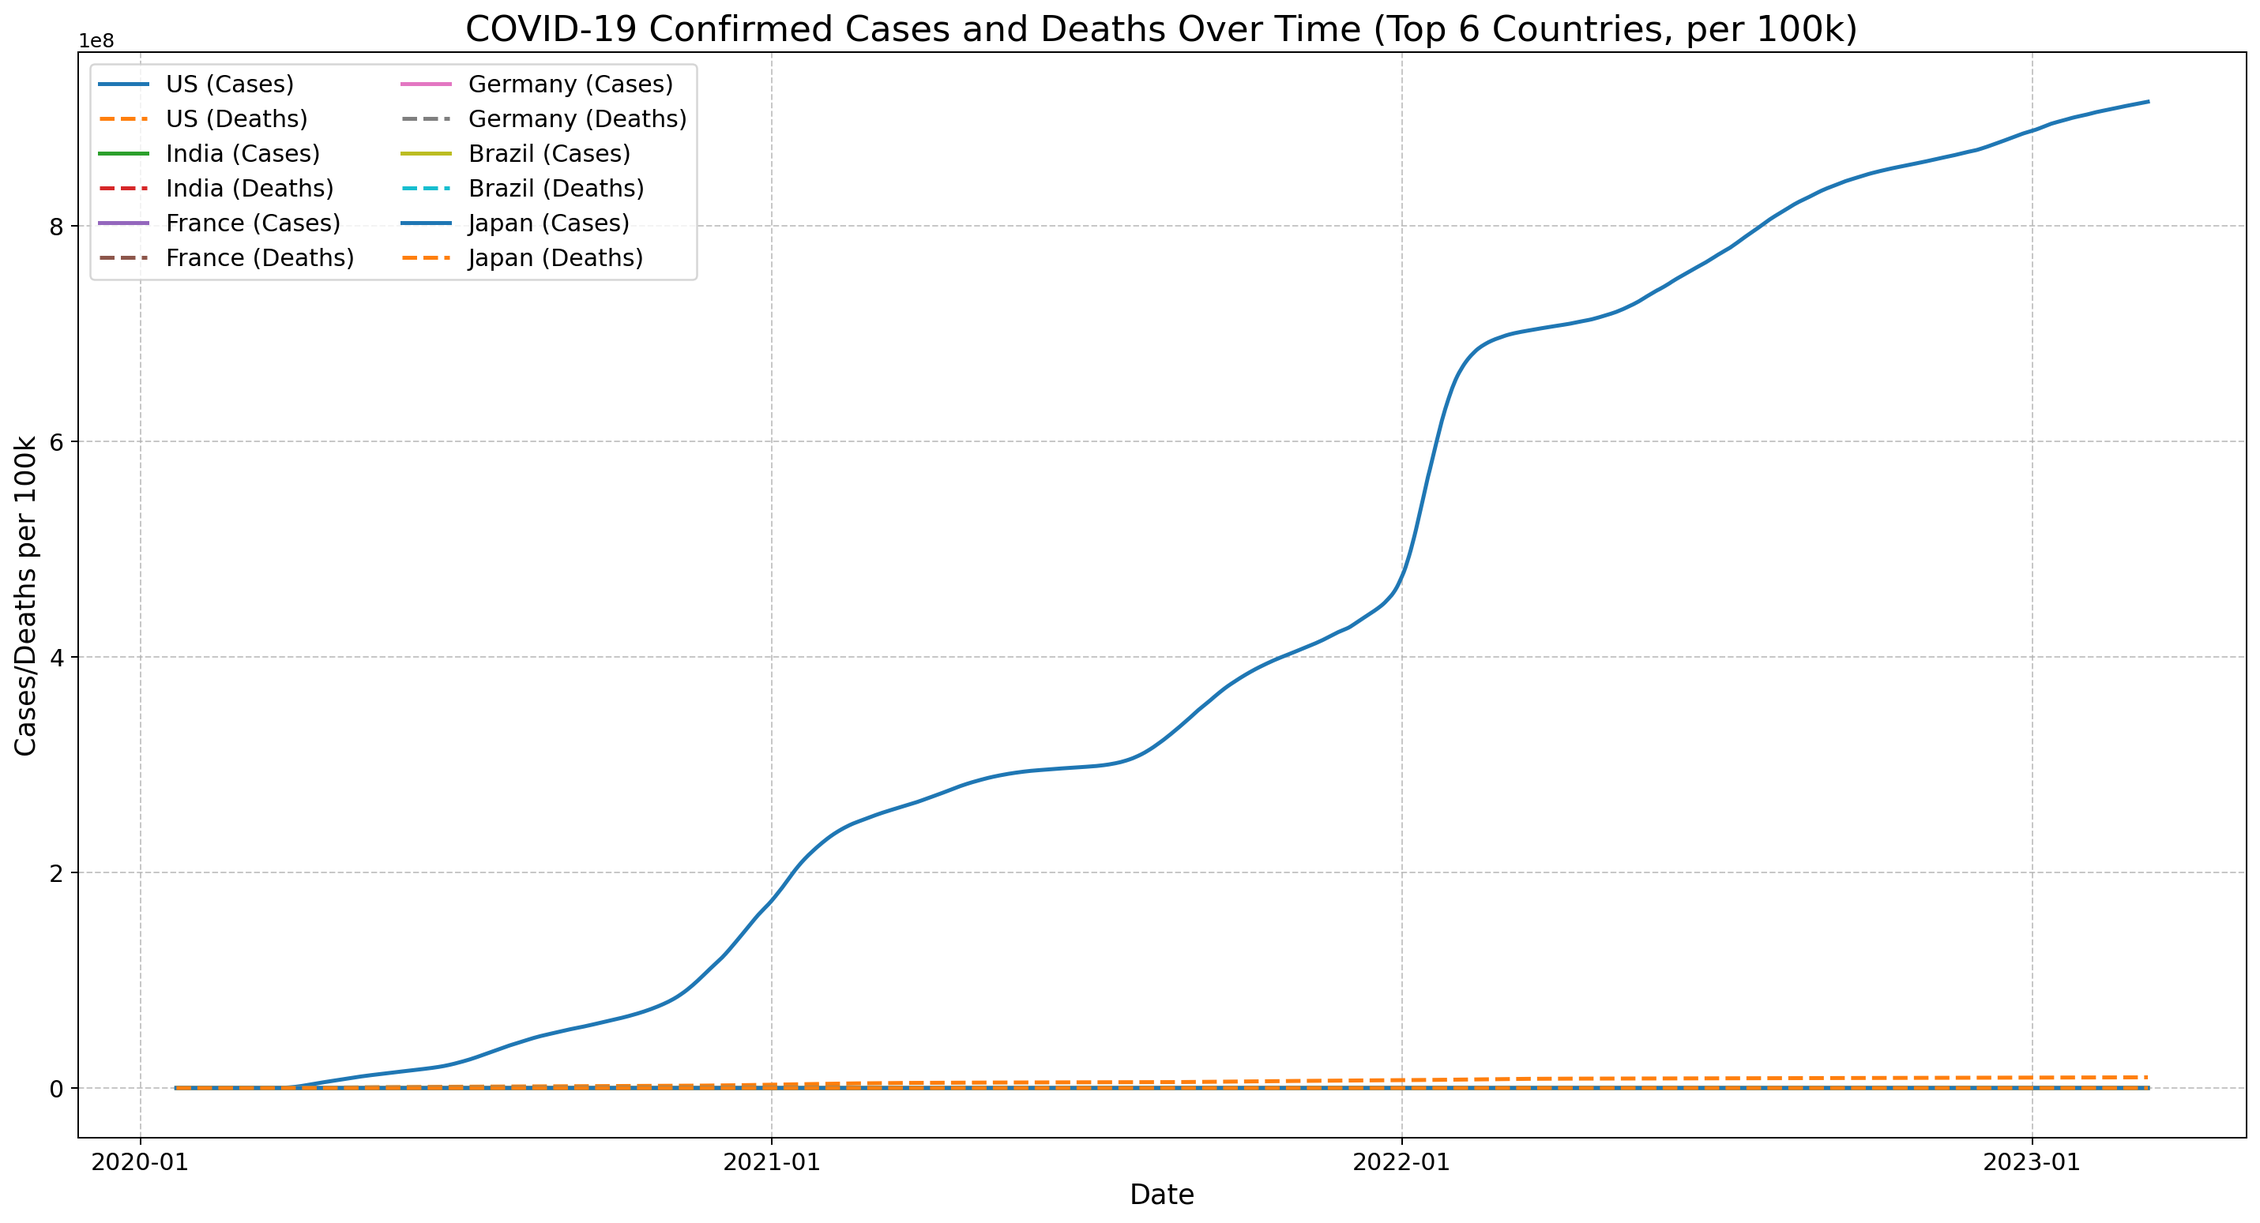
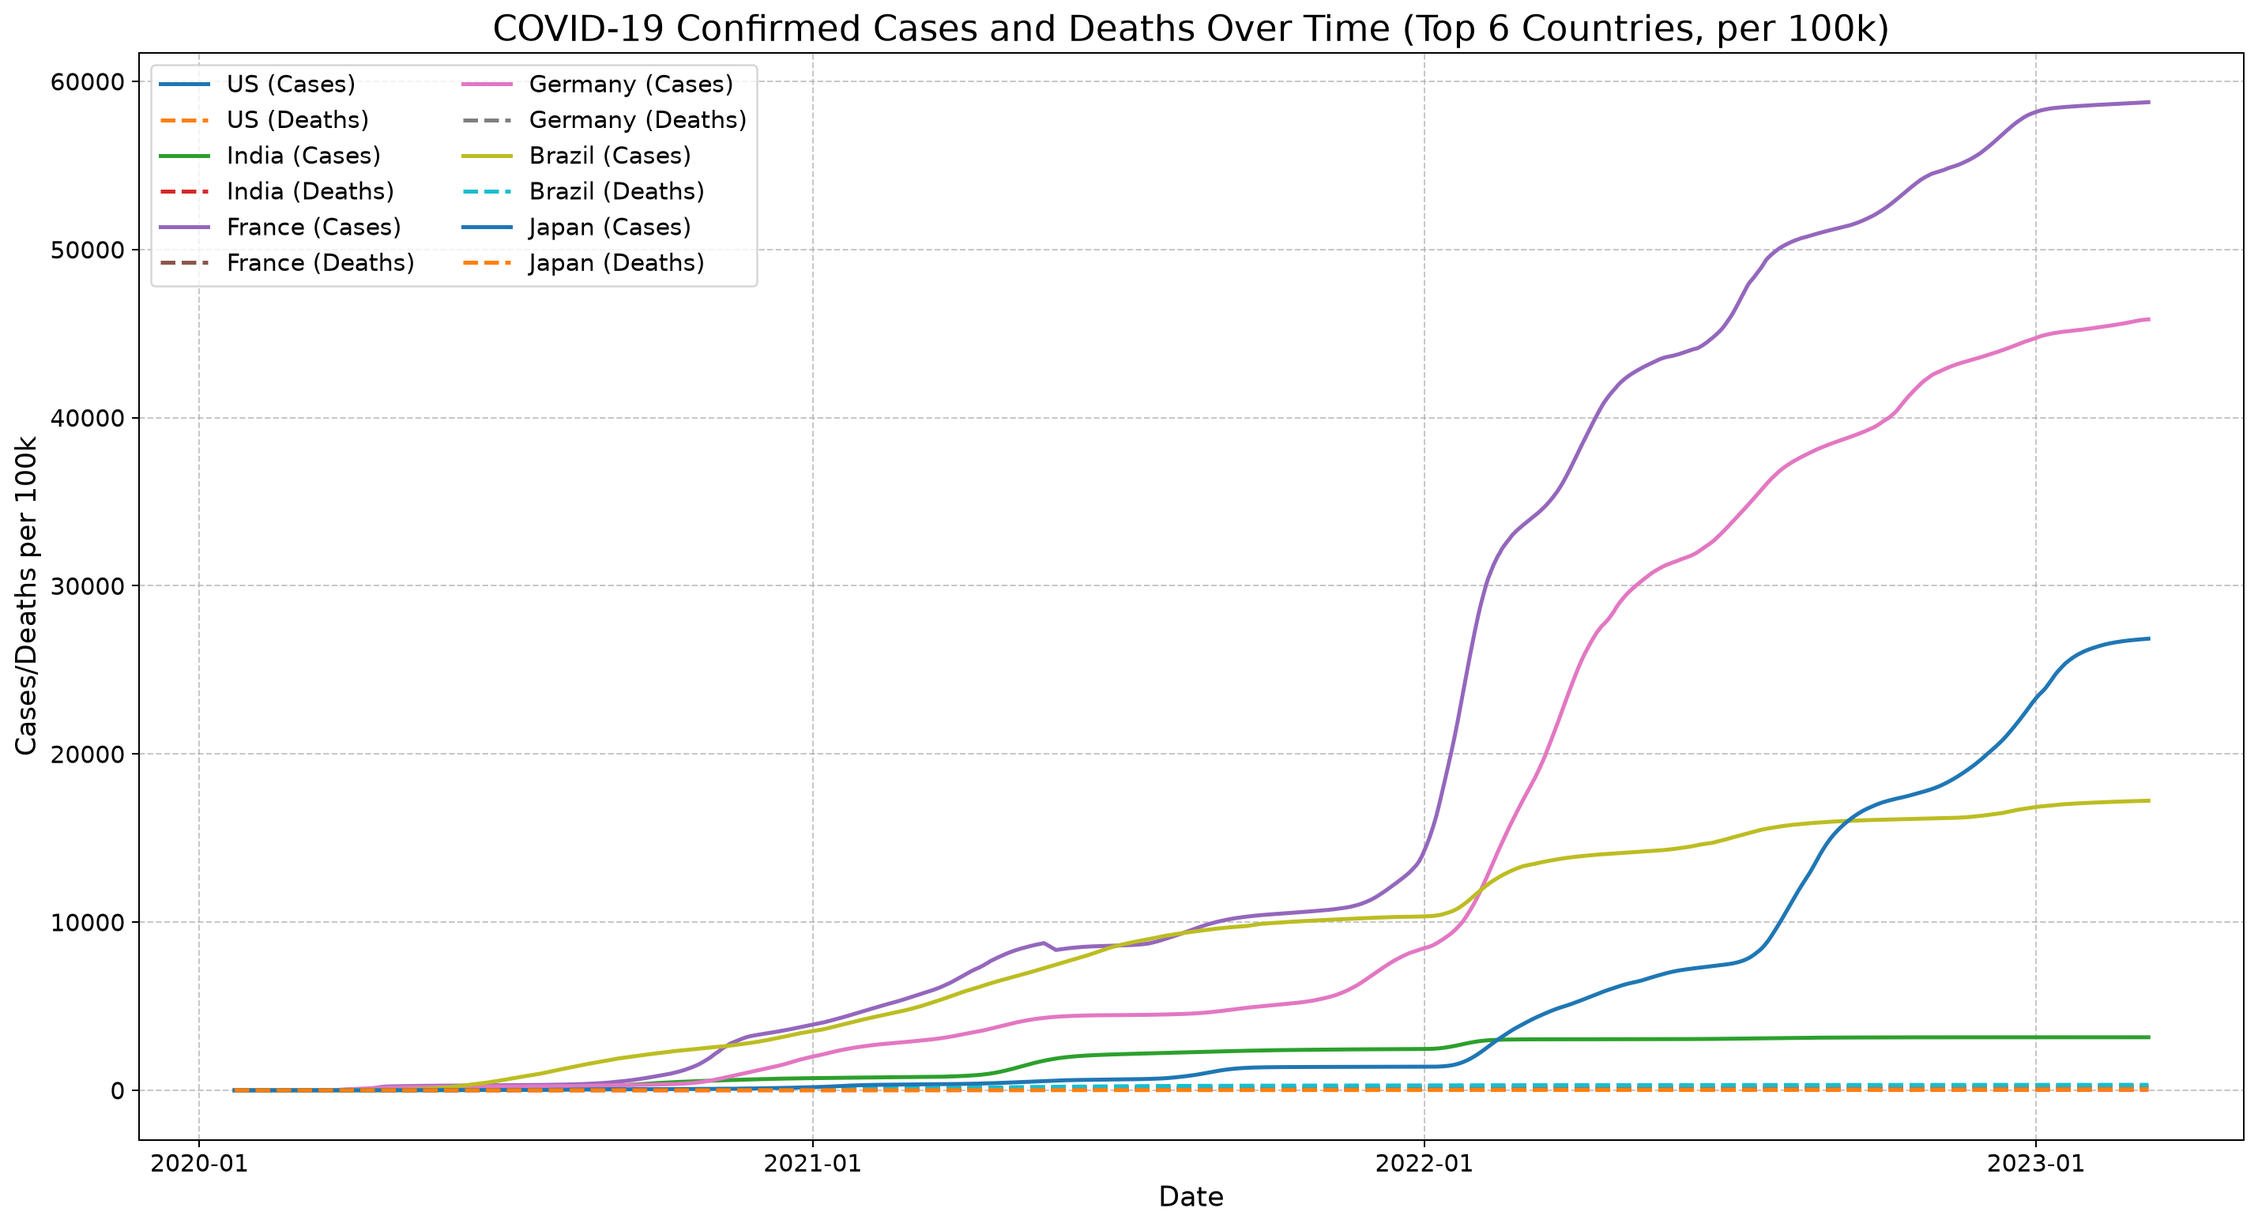
Record COVID input snapshot and correct pipeline claims

diff --git a/covid_analysis.py b/covid_analysis.py
@@ -4,6 +4,9 @@ import numpy as np
 import matplotlib.pyplot as plt
 import seaborn as sns
 import requests
+import hashlib
+import json
+from datetime import datetime, timezone
 
 # Set visualization output directory
 VIS_DIR = 'visualization'
@@ -12,11 +15,15 @@ os.makedirs(VIS_DIR, exist_ok=True)
 # -------------------------------
 # 1. DATA ACQUISITION & LOADING
 # -------------------------------
-# TODO: Download or load datasets: Johns Hopkins, OWID, Oxford, Population
-# Example URLs (update as needed):
-# Johns Hopkins: https://github.com/CSSEGISandData/COVID-19
-# OWID: https://covid.ourworldindata.org/data/owid-covid-data.csv
-# Oxford: https://github.com/OxCGRT/covid-policy-tracker
+# Johns Hopkins cumulative series and OWID population, vaccination, and policy fields.
+
+DATASETS = [
+    ('Johns Hopkins Confirmed', 'https://raw.githubusercontent.com/CSSEGISandData/COVID-19/master/csse_covid_19_data/csse_covid_19_time_series/time_series_covid19_confirmed_global.csv', 'time_series_covid19_confirmed_global.csv'),
+    ('Johns Hopkins Deaths', 'https://raw.githubusercontent.com/CSSEGISandData/COVID-19/master/csse_covid_19_data/csse_covid_19_time_series/time_series_covid19_deaths_global.csv', 'time_series_covid19_deaths_global.csv'),
+    ('Johns Hopkins Recovered', 'https://raw.githubusercontent.com/CSSEGISandData/COVID-19/master/csse_covid_19_data/csse_covid_19_time_series/time_series_covid19_recovered_global.csv', 'time_series_covid19_recovered_global.csv'),
+    ('OWID', 'https://raw.githubusercontent.com/owid/covid-19-data/master/public/data/owid-covid-data.csv', 'owid-covid-data.csv'),
+]
+
 
 def download_data():
     """
@@ -24,48 +31,29 @@ def download_data():
     Downloads:
     - Johns Hopkins CSSE time series (confirmed, deaths, recovered)
     - Our World in Data (OWID) COVID-19 dataset
-    - Oxford COVID-19 Government Response Tracker (OxCGRT)
+    - OWID population, vaccination, and reported policy fields
     """
-    datasets = [
-        {
-            'name': 'Johns Hopkins Confirmed',
-            'url': 'https://raw.githubusercontent.com/CSSEGISandData/COVID-19/master/csse_covid_19_data/csse_covid_19_time_series/time_series_covid19_confirmed_global.csv',
-            'path': 'time_series_covid19_confirmed_global.csv'
-        },
-        {
-            'name': 'Johns Hopkins Deaths',
-            'url': 'https://raw.githubusercontent.com/CSSEGISandData/COVID-19/master/csse_covid_19_data/csse_covid_19_time_series/time_series_covid19_deaths_global.csv',
-            'path': 'time_series_covid19_deaths_global.csv'
-        },
-        {
-            'name': 'Johns Hopkins Recovered',
-            'url': 'https://raw.githubusercontent.com/CSSEGISandData/COVID-19/master/csse_covid_19_data/csse_covid_19_time_series/time_series_covid19_recovered_global.csv',
-            'path': 'time_series_covid19_recovered_global.csv'
-        },
-        {
-            'name': 'OWID',
-            'url': 'https://covid.ourworldindata.org/data/owid-covid-data.csv',
-            'path': 'owid-covid-data.csv'
-        },
-        {
-            'name': 'Oxford Policy',
-            'url': 'https://raw.githubusercontent.com/OxCGRT/covid-policy-tracker/master/data/OxCGRT_latest.csv',
-            'path': 'OxCGRT_latest.csv'
-        }
-    ]
-    for ds in datasets:
-        if not os.path.exists(ds['path']):
-            print(f"Downloading {ds['name']} dataset...")
+    manifest = []
+    for name, url, path in DATASETS:
+        if not os.path.exists(path):
             try:
-                r = requests.get(ds['url'], timeout=60)
-                r.raise_for_status()
-                with open(ds['path'], 'wb') as f:
-                    f.write(r.content)
-                print(f"Downloaded {ds['path']}.")
-            except Exception as e:
-                print(f"Failed to download {ds['name']}: {e}")
-        else:
-            print(f"{ds['path']} already exists. Skipping download.")
+                response = requests.get(url, timeout=60)
+                response.raise_for_status()
+            except requests.RequestException as exc:
+                raise RuntimeError(f'Required {name} download failed from {url}: {exc}') from exc
+            if not response.content:
+                raise ValueError(f'{name} download was empty')
+            temporary_path = path + '.partial'
+            with open(temporary_path, 'wb') as target:
+                target.write(response.content)
+            os.replace(temporary_path, path)
+        with open(path, 'rb') as source:
+            digest = hashlib.file_digest(source, 'sha256').hexdigest()
+        manifest.append({'name': name, 'url': url, 'path': path,
+                         'sha256': digest, 'retrieved_or_verified_utc': datetime.now(timezone.utc).isoformat()})
+    with open('data_manifest.json', 'w') as target:
+        json.dump(manifest, target, indent=2)
+    return manifest
 
 # -------------------------------
 # 2. DATA CLEANING & MERGING
@@ -102,7 +90,7 @@ def load_and_merge_data():
     # Merge JHU datasets
     df_jhu = df_conf_long.merge(df_deaths_long, on=['Country/Region', 'date'], how='outer')
     df_jhu = df_jhu.merge(df_recov_long, on=['Country/Region', 'date'], how='outer')
-    df_jhu['date'] = pd.to_datetime(df_jhu['date'], errors='coerce')
+    df_jhu['date'] = pd.to_datetime(df_jhu['date'], format='%m/%d/%y', errors='coerce')
     df_jhu = df_jhu.rename(columns={'Country/Region': 'location'})
 
     # Load OWID dataset
@@ -119,7 +107,9 @@ def load_and_merge_data():
     )
 
     # Fill population from OWID
-    merged['population'] = merged['population'].fillna(method='ffill').fillna(method='bfill')
+    merged = merged.sort_values(['location', 'date'])
+    merged['population'] = merged.groupby('location')['population'].ffill().fillna(
+        merged.groupby('location')['population'].bfill())
     # Normalize per 100k population
     for col in ['confirmed', 'deaths', 'recovered', 'new_cases', 'new_deaths', 'new_vaccinations']:
         if col in merged.columns:
@@ -127,8 +117,9 @@ def load_and_merge_data():
 
     # Handle missing values
     merged = merged.sort_values(['location', 'date'])
-    merged = merged.groupby('location').apply(lambda group: group.fillna(method='ffill')).reset_index(drop=True)
-    merged = merged.fillna(0)
+    value_columns = merged.columns.difference(['location', 'date'])
+    merged[value_columns] = merged.groupby('location')[value_columns].ffill()
+    # Keep unavailable vaccination and policy values missing rather than inventing zeroes.
 
     # Save merged dataset
     merged.to_csv('merged_covid_dataset.csv', index=False)
@@ -170,25 +161,21 @@ def plot_cases_by_country(df):
 
 
 def plot_deaths_vs_vaccination(df):
-    """
-    Enhanced: Compare deaths vs vaccination rates per capita (latest available date, top 20 countries).
-    - Horizontal bar plot with clear color distinction.
-    - Larger figure, bigger fonts, separated legends, gridlines.
-    - Saves plot as visualization/deaths_vs_vaccination.png
-    """
+    """Plot two differently scaled measures on separate axes without implying causality."""
     latest = df.groupby('location')['date'].max().reset_index()
     merged_latest = df.merge(latest, on=['location', 'date'], how='inner')
     merged_latest = merged_latest[merged_latest['population'] > 1e6]
+    merged_latest = merged_latest.dropna(subset=['deaths_per100k', 'people_fully_vaccinated_per_hundred'])
     merged_latest = merged_latest.sort_values('deaths_per100k', ascending=False).head(20)
-    plt.figure(figsize=(14, 10))
-    bar1 = plt.barh(merged_latest['location'], merged_latest['deaths_per100k'], color='tomato', alpha=0.8, label='Deaths per 100k')
-    bar2 = plt.barh(merged_latest['location'], merged_latest['people_fully_vaccinated_per_hundred'], color='mediumseagreen', alpha=0.6, label='Fully Vaccinated (%)')
-    plt.title('Deaths vs Vaccination Rates per Capita (Top 20 Impacted Countries)', fontsize=18)
-    plt.xlabel('Value', fontsize=14)
-    plt.ylabel('Country', fontsize=14)
+    plt.figure(figsize=(14, 8))
+    plt.scatter(merged_latest['people_fully_vaccinated_per_hundred'], merged_latest['deaths_per100k'])
+    for row in merged_latest.itertuples():
+        plt.annotate(row.location, (row.people_fully_vaccinated_per_hundred, row.deaths_per100k), fontsize=8)
+    plt.title('Historical vaccination coverage and cumulative deaths: descriptive only')
+    plt.xlabel('Fully vaccinated (% of population)')
+    plt.ylabel('Cumulative reported deaths per 100,000')
     plt.xticks(fontsize=12)
     plt.yticks(fontsize=12)
-    plt.legend(loc='lower right', fontsize=12, frameon=True)
     plt.grid(True, axis='x', linestyle='--', alpha=0.7)
     plt.tight_layout(rect=[0, 0, 1, 0.97])
     plt.savefig(os.path.join(VIS_DIR, 'deaths_vs_vaccination.png'), bbox_inches='tight', dpi=180)
@@ -211,9 +198,8 @@ def plot_policy_vs_outcomes(df):
         country_df = df[df['location'] == country].copy()
         # Fill missing values
         for col in ['stringency_index', 'new_cases_per100k', 'new_deaths_per100k']:
-            if col not in country_df or country_df[col].isnull().all():
-                country_df[col] = 0
-            country_df[col] = country_df[col].fillna(0)
+            if col not in country_df:
+                country_df[col] = np.nan
         # Rolling averages
         country_df['cases_7d'] = country_df['new_cases_per100k'].rolling(7, min_periods=1).mean()
         country_df['deaths_7d'] = country_df['new_deaths_per100k'].rolling(7, min_periods=1).mean()
@@ -250,7 +236,7 @@ def plot_heatmap_correlation(df):
     - Saves plot as visualization/heatmap_correlation.png
     """
     corr_cols = [
-        'confirmed_per100k', 'deaths_per100k', 'recovered_per100k',
+        'confirmed_per100k', 'deaths_per100k',
         'new_cases_per100k', 'new_deaths_per100k',
         'people_fully_vaccinated_per_hundred', 'stringency_index', 'population'
     ]

diff --git a/tests/test_downloads.py b/tests/test_downloads.py
@@ -1,0 +1,36 @@
+import json
+import os
+import tempfile
+import unittest
+from pathlib import Path
+from unittest.mock import Mock, patch
+
+import covid_analysis
+
+
+class DownloadTests(unittest.TestCase):
+    def test_records_hash_and_fails_on_download_error(self):
+        with tempfile.TemporaryDirectory() as tmp:
+            previous = os.getcwd()
+            original = covid_analysis.DATASETS
+            os.chdir(tmp)
+            covid_analysis.DATASETS = [('Synthetic', 'https://example.invalid/data.csv', 'data.csv')]
+            try:
+                response = Mock(content=b'a,b\n1,2\n')
+                response.raise_for_status.return_value = None
+                with patch.object(covid_analysis.requests, 'get', return_value=response):
+                    manifest = covid_analysis.download_data()
+                self.assertEqual(len(manifest[0]['sha256']), 64)
+                self.assertEqual(json.loads(Path('data_manifest.json').read_text())[0]['name'], 'Synthetic')
+                Path('data.csv').unlink()
+                with patch.object(covid_analysis.requests, 'get', side_effect=RuntimeError('offline')):
+                    with self.assertRaisesRegex(RuntimeError, 'offline'):
+                        covid_analysis.download_data()
+                self.assertFalse(Path('data.csv').exists())
+            finally:
+                covid_analysis.DATASETS = original
+                os.chdir(previous)
+
+
+if __name__ == '__main__':
+    unittest.main()

diff --git a/README.md b/README.md
@@ -1,34 +1,25 @@
 # COVID-19 Global Impact Analysis
 
-This project analyzes the global impact of COVID-19 using the Johns Hopkins University dataset, vaccination data, and public policy indicators. It demonstrates time series analysis, multisource data merging, and public health insight generation.
+An exploratory analysis of historical COVID-19 cases, deaths, vaccination and policy indicators. Correlations in this project do not establish causal effects of vaccination or policy. The outputs are not current public-health guidance.
 
-## Structure
-- `visualization/`: All output plots
-- `merged_covid_dataset.csv`: Cleaned and merged dataset
-- Main analysis script (to be created)
-## Setup
-1. Clone the repository:
-   ```bash
-   git clone [https://github.com/MoAJ-ML/covid19-global-impact-analysis.git]
-   cd covid19-global-impact-analysis
-```
-2. pip install -r requirements.txt
-```
-Run the analysis:
-bash
+## Inputs and provenance
+
+`covid_analysis.py` retrieves Johns Hopkins CSSE confirmed/deaths/recovered series and Our World in Data COVID-19 data, including population, vaccination and policy fields, when files are absent. It does not ingest Oxford's separate policy CSV. These URLs refer to upstream files that can change or disappear. Each run writes `data_manifest.json` with the exact URL, SHA-256 and retrieval or verification time for every input. Archive that manifest and the corresponding inputs to reproduce a run. Review each publisher's attribution and reuse terms before redistribution.
+
+The tracked `archive (2).zip` is a legacy dataset archive; the script currently uses the named downloaded CSVs, not that archive. The charts were regenerated on 10 November 2026 with the input hashes in `data_manifest.json`. `SUMMARY.md` remains historical and is not a current quantitative result.
+
+## Run
+
+```bash
+pip install -r requirements.txt
 python covid_analysis.py
+python -m unittest discover -s tests
+```
 
-## Data Sources
-- Johns Hopkins COVID-19 Data
-- Our World in Data (Vaccinations, Policy)
-- Oxford COVID-19 Government Response Tracker
+Run from the repository root. The script fails if a required download fails instead of continuing with an incomplete set. It writes `merged_covid_dataset.csv`, `data_manifest.json`, and plots under `visualization/`. Check the manifest, merge coverage, missingness, and country-name alignment before interpreting plots. The `data_manifest.json` records a snapshot; the code does not pin upstream server revisions automatically.
 
-## Deliverables
-- Country-level time series visualizations
-- Comparative analysis of deaths vs vaccinations
-- Policy response vs outcomes analysis
-- Correlation heatmap
-- High-level summary of findings
+## Limitations
 
-## Usage
-Run the main analysis script after placing raw data in the project folder.
+Johns Hopkins and OWID country names and coverage may differ. Data can be revised retrospectively; recovered cases have uneven availability. The scripts are descriptive and do not adjust for testing, reporting, population composition or policy confounders. The repository has no software license file; data rights belong to their respective publishers.
+
+**Repository description recommendation:** “Historical COVID-19 data exploration with source hashes and explicit merge limitations.”

diff --git a/SUMMARY.md b/SUMMARY.md
@@ -1,36 +1,7 @@
-# COVID-19 Global Impact Analysis – Key Insights
+# Historical COVID-19 data: interpretation limits
 
-## 1. Spread Dynamics (Time Series)
-- Top impacted countries (by total cases) show distinct waves of infection and mortality.
-- Deaths per 100k closely follow case surges, with a lag of 2–4 weeks.
-- Some countries exhibit faster recovery rates, likely linked to early interventions and healthcare capacity.
+The analysis joins Johns Hopkins cumulative reported cases, deaths and recovered series with OWID population, vaccination, and stringency fields by country name and date. The exact input URLs, hashes, and retrieval or verification time for the 10 November 2026 rerun are in `data_manifest.json`. The generated figures are descriptive views of that snapshot.
 
-## 2. Deaths vs Vaccination
-- Countries with higher vaccination rates per capita generally show lower deaths per 100k in recent periods.
-- Outliers exist, often due to late vaccine rollouts or high-risk populations.
-- Vaccine equity remains a challenge, with some high-death countries having lower vaccination coverage.
+Country names and reporting windows do not align perfectly, and recovered-case reporting is incomplete. Missing vaccination or policy values remain missing. The vaccination/deaths chart compares two differently scaled historical measures; it does not estimate vaccine effect. The policy and correlation charts do not adjust for testing, epidemic timing, age structure, reporting, or other confounders. Neither chart can establish that a policy or vaccination level caused an outcome.
 
-## 3. Policy Response vs Outcomes
-- Stringency index increases (lockdowns, mask mandates) often precede or coincide with reductions in new cases/deaths.
-- Countries that implemented strong policies early saw faster declines in case rates.
-- The relationship is not perfect—other factors (healthcare, population density, compliance) also play a role.
-
-## 4. Correlation Analysis
-- Strong positive correlation between confirmed cases and deaths per 100k.
-- Negative correlation between vaccination rates and deaths per 100k.
-- Stringency index correlates with reduction in new cases, but with diminishing returns at very high levels.
-
-## 5. Public Health Insights
-- Early, strong policy interventions are associated with better outcomes.
-- High vaccination coverage is critical for reducing mortality.
-- Ongoing monitoring and adaptive policy are needed for future waves.
-
----
-
-**All visualizations are saved in the `visualization/` folder.**
-- `cases_by_country_over_time.png`: Top countries, cases/deaths over time
-- `deaths_vs_vaccination.png`: Deaths vs vaccination rates
-- `policy_vs_outcomes.png`: Policy stringency vs outcomes
-- `heatmap_correlation.png`: Correlation matrix
-
-For further analysis, see `merged_covid_dataset.csv` for the cleaned, merged dataset.
+No clinical or public-health recommendation should be made from these plots. Recheck current publisher data and methods for any decision use.
